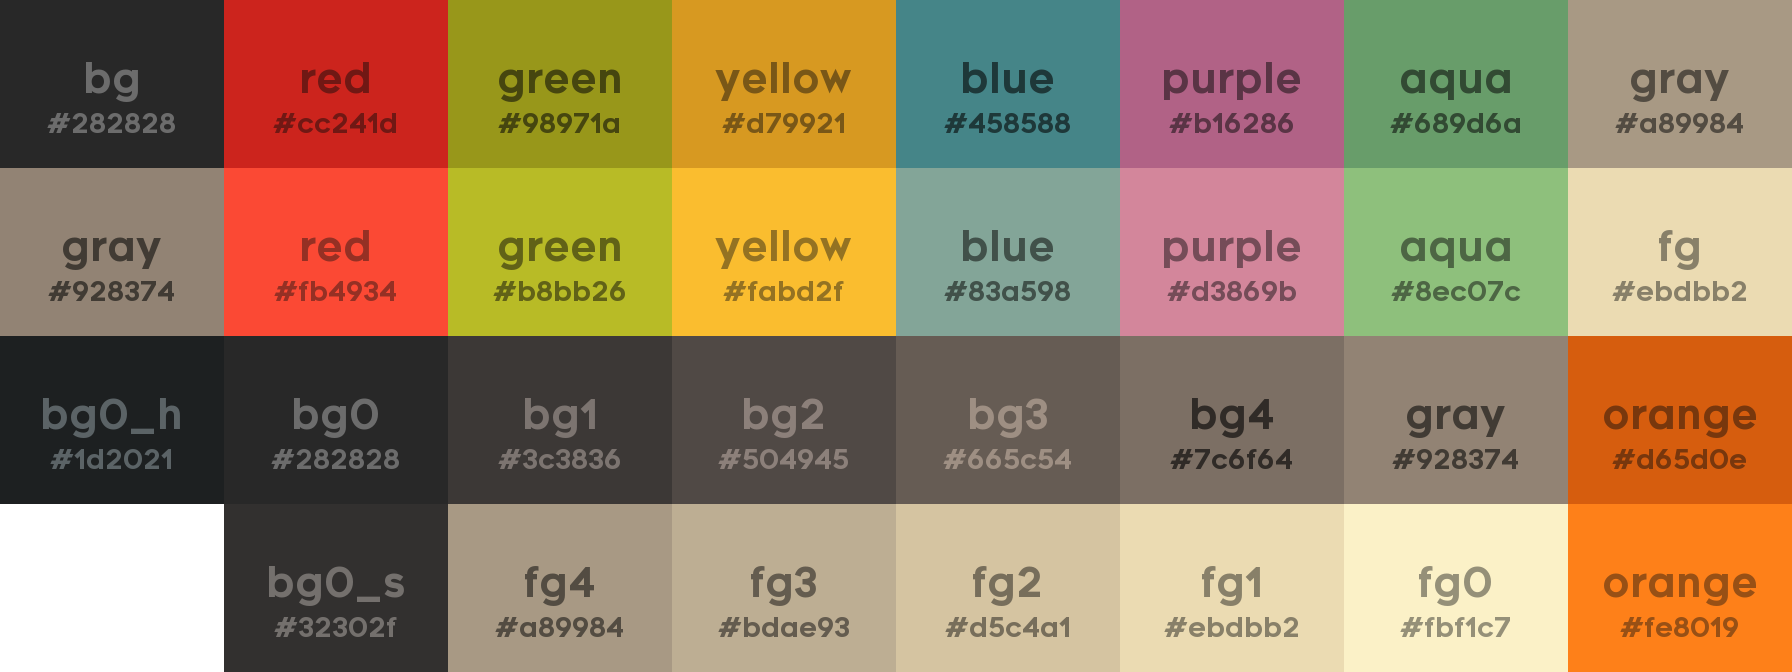
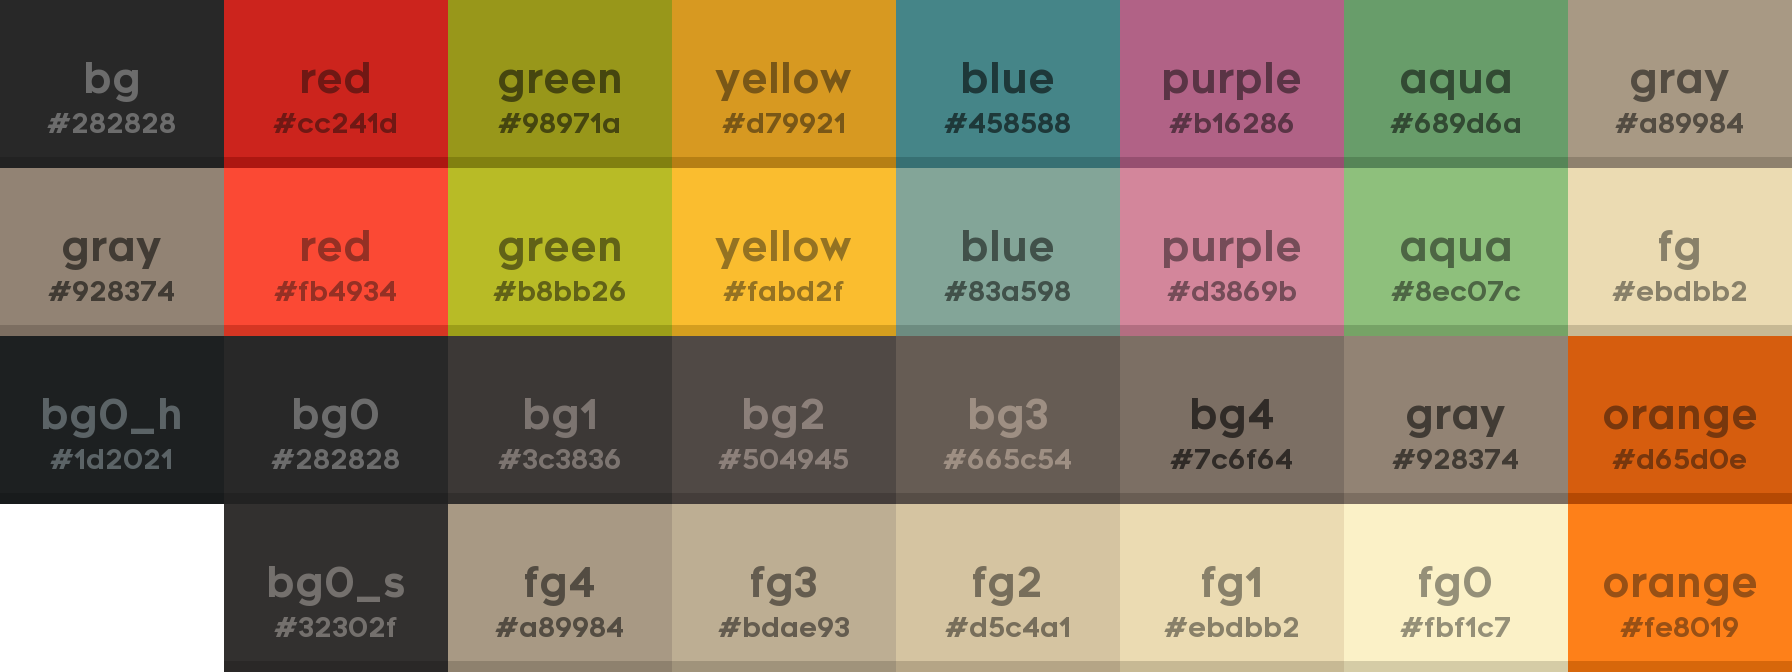
version 4

diff --git a/classes.py b/classes.py
@@ -49,14 +49,15 @@ class Color:
 
     def text(self) -> "Color":
         (h, s, v) = self.hsv
+        # correct for low contrast (using LERP and magic numbers)
         if self.isDark:
-            return Color((h, s * 0.95, v * 1.1 + (1. - v) * 0.3))  # correct for low contrast
+            return Color((h, s * 0.95, v * 1.1 + (1. - v) * 0.3))
         else:
-            return Color((h, s * 0.95, v * 0.6 - (1. - v) * 0.2))  # correct for low contrast
+            return Color((h, s * 0.95, v * 0.6 - (1. - v) * 0.2))
 
     def darker(self) -> "Color":
         (h, s, v) = self.hsv
-        return Color((h, s * 1.1, v * 0.6))
+        return Color((h, s * 1.05, v * 0.85))
 
 
 @dataclass

diff --git a/main.py b/main.py
@@ -18,6 +18,10 @@ def main():
                     ((left, top), (left + t.gridWidth - 1, top + t.gridHeight - 1)),
                     fill=color.rgb
                 )
+                imgd.rectangle(
+                    ((left, top + t.gridHeight - 11), (left + t.gridWidth - 1, top + t.gridHeight - 1)),
+                    fill=color.darker().rgb
+                )
                 if color.name:
                     imgd.text(
                         (left + t.gridWidth / 2, top + t.gridHeight / 2 - 5),

diff --git a/README.md b/README.md
@@ -3,9 +3,10 @@
 Creates a palette preview image by using given color values  
 Based on the great gruvbox theme, where even the preview is impressive:![gruvbox theme](https://camo.githubusercontent.com/410b3ab80570bcd5b470a08d84f93caa5b4962ccd994ebceeb3d1f78364c2120/687474703a2f2f692e696d6775722e636f6d2f776136363678672e706e67)
 
-Version 3 - finally fixed the font, arial was making me angry, had to fix contrast again
+Version 4 - the little darker strip at the bottom goes a long way in making this look good
 ![Current version](result.png)
 
 Archive of past results - to laugh or cry:  
+[Version 3](version3.png) - finally fixed the font, arial was making me angry, had to fix contrast again  
 [Version 2](version2.png) - made in a day, got text contrast to about where I want it  
 [Version 1](version1.png) - made in an hour, quality confirms it :p
